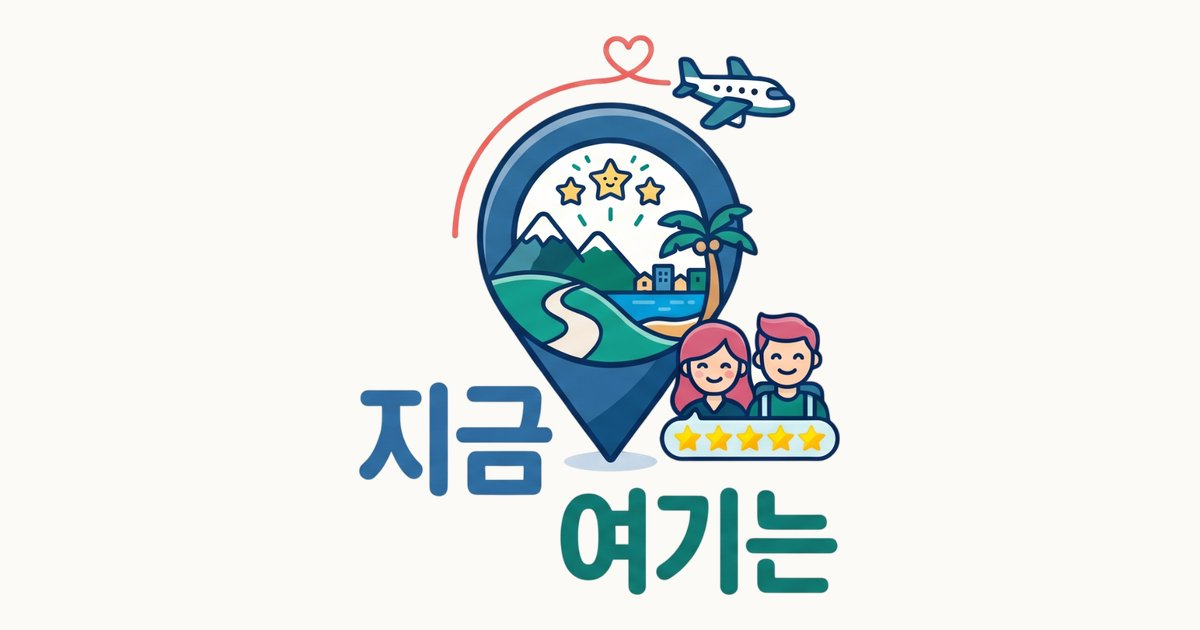
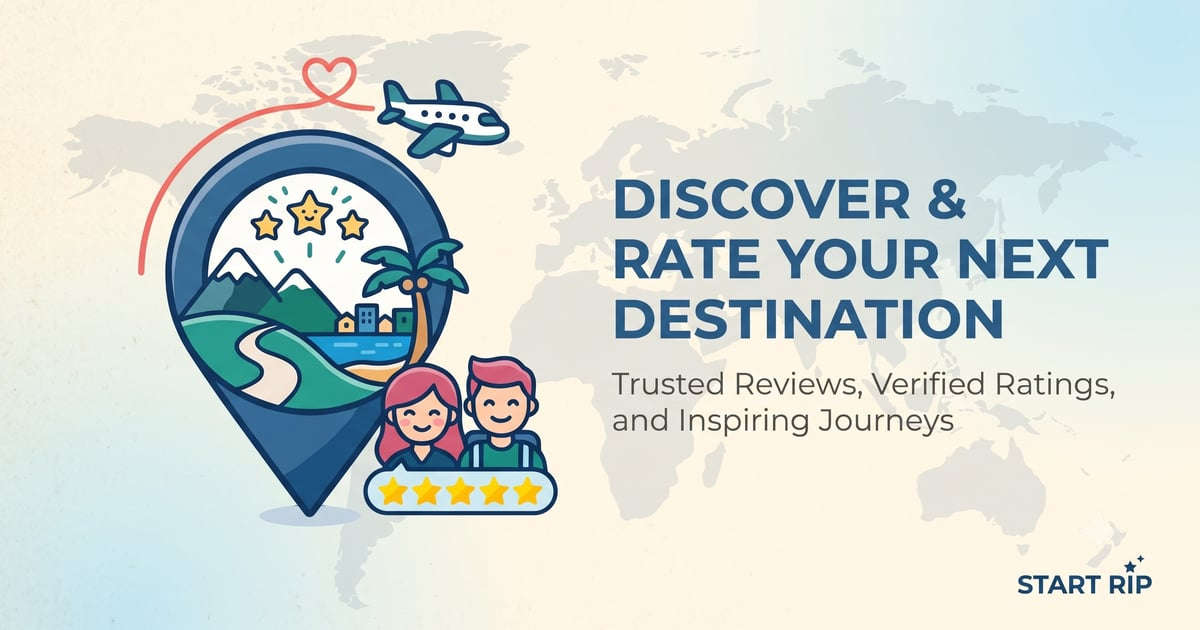
feat: OG 기본 이미지를 og-img.jpeg 기반으로 교체, 홈 제목·설명 초안 추가
Claude-Session: https://claude.ai/code/session_01JtwbWuj4NyDQaDqXfUjrgy

diff --git a/src/site.config.ts b/src/site.config.ts
@@ -6,6 +6,8 @@ export const LANGS: Lang[] = ['ko', 'en'];
 export interface SiteConfig {
   url: string;
   name: Record<Lang, string>;
+  homeTitle: Record<Lang, string>;
+  description: Record<Lang, string>;
   tagline: Record<Lang, string>;
   author: string;
   email: string;
